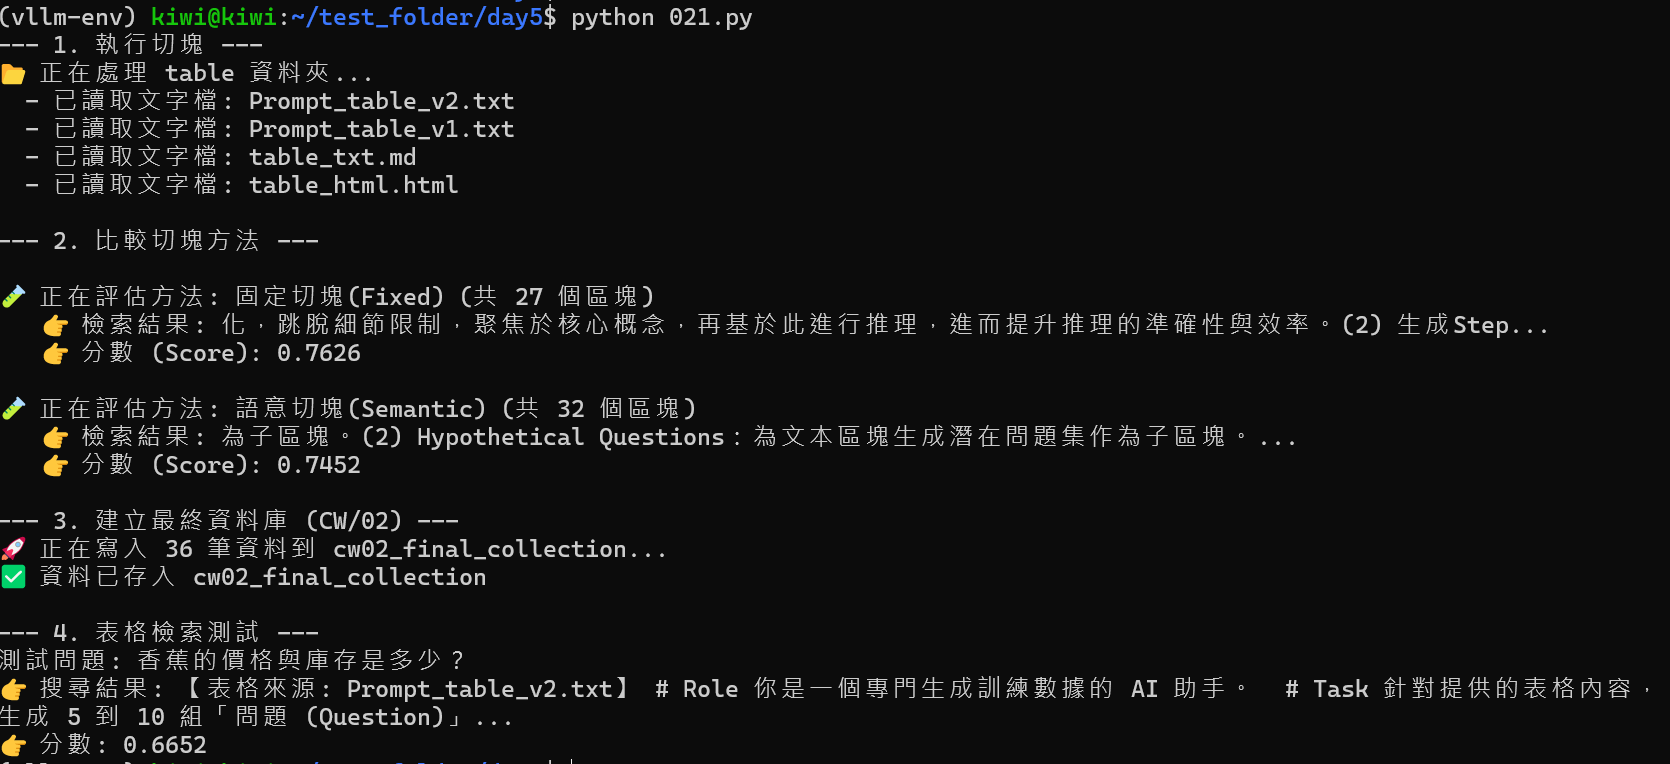
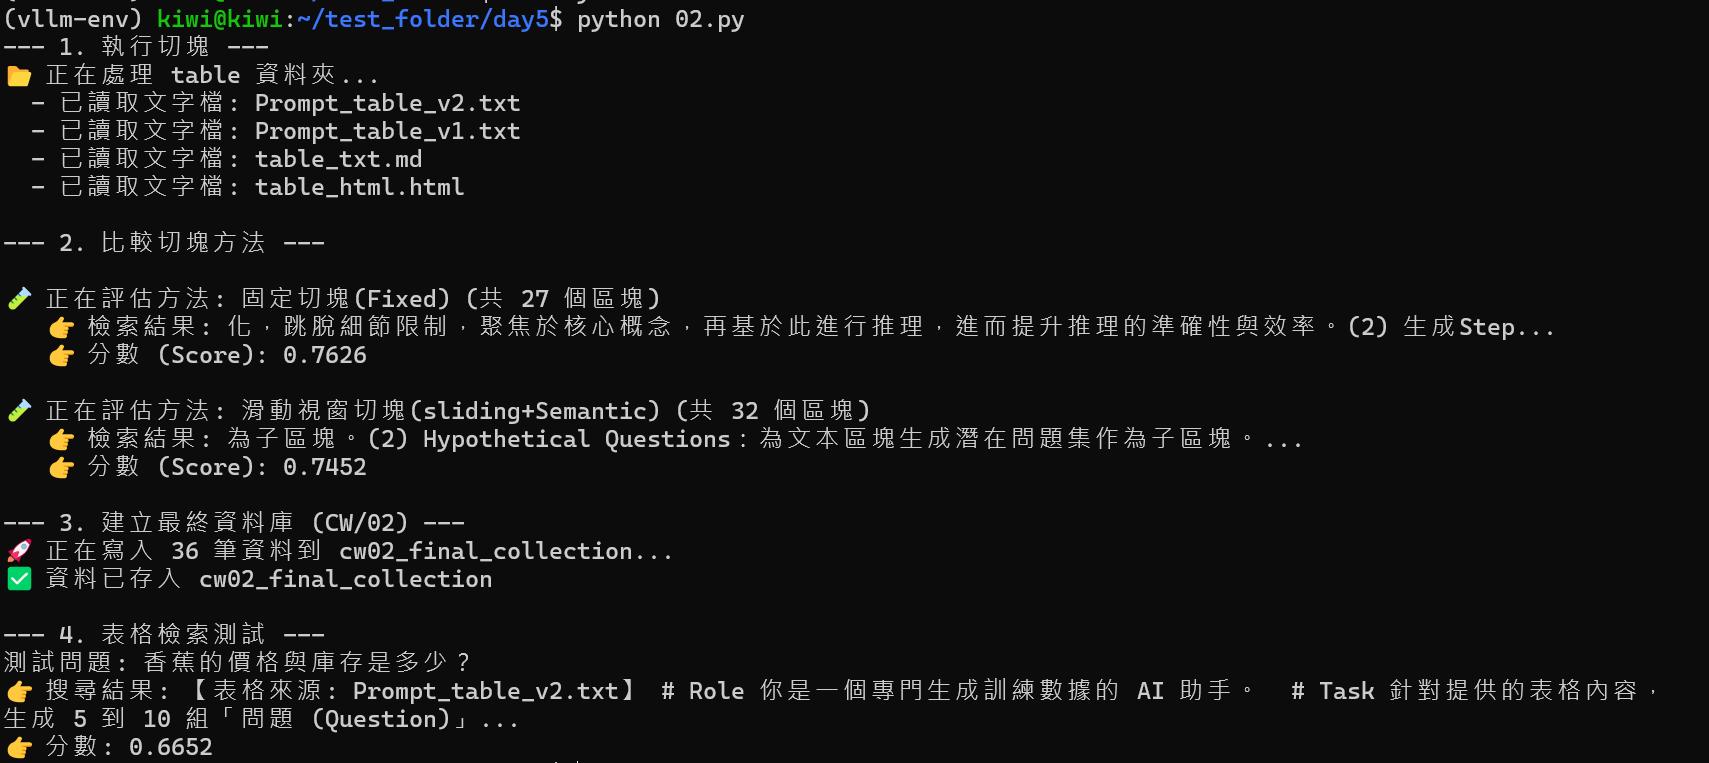
new02

diff --git a/CW/02/02.py b/CW/02/02.py
@@ -215,7 +215,7 @@ if __name__ == "__main__":
     test_query = "請說明本文的核心重點是什麼？"
     
     evaluate_method("固定切塊(Fixed)", fixed_chunks, test_query)
-    evaluate_method("語意切塊(Semantic)", semantic_chunks, test_query)
+    evaluate_method("滑動視窗切塊(sliding+Semantic)", semantic_chunks, test_query)
 
     # 3. 建立最終作業資料庫
     print("\n--- 3. 建立最終資料庫 (CW/02) ---")
